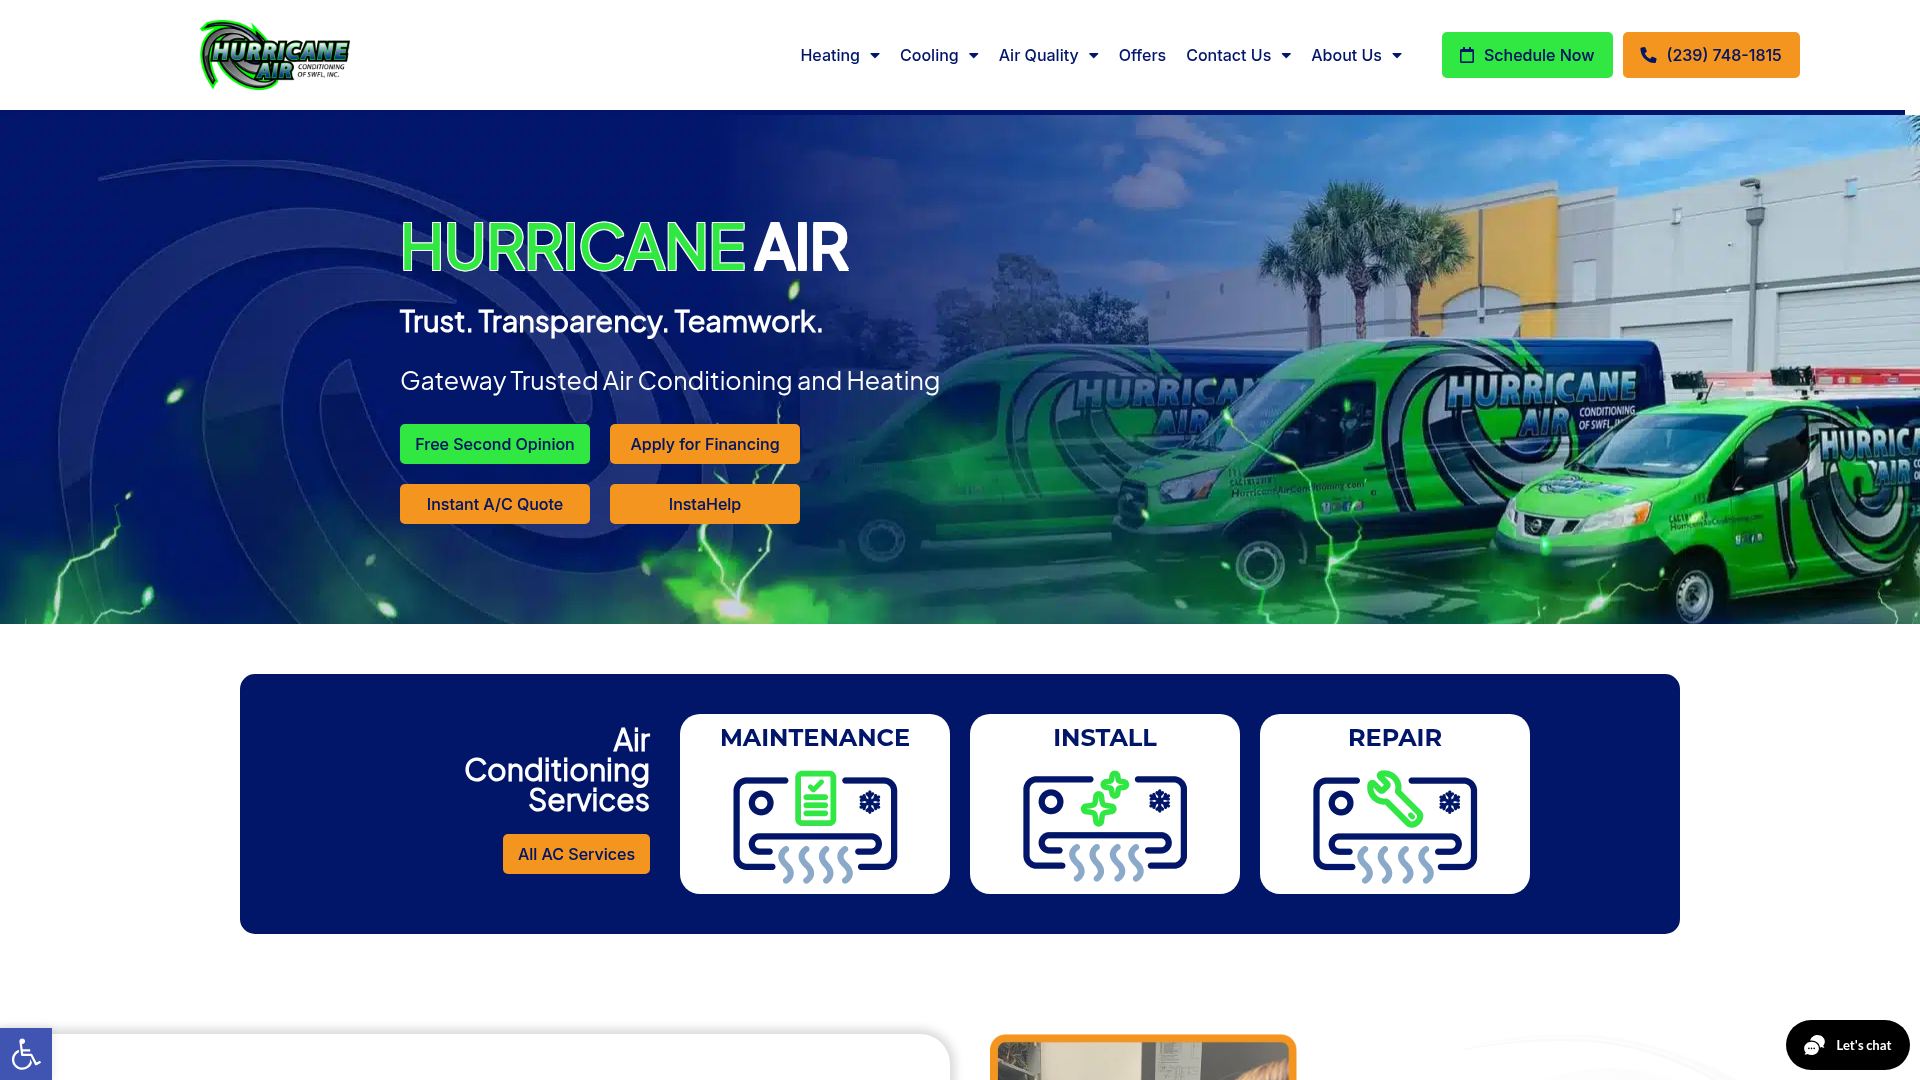
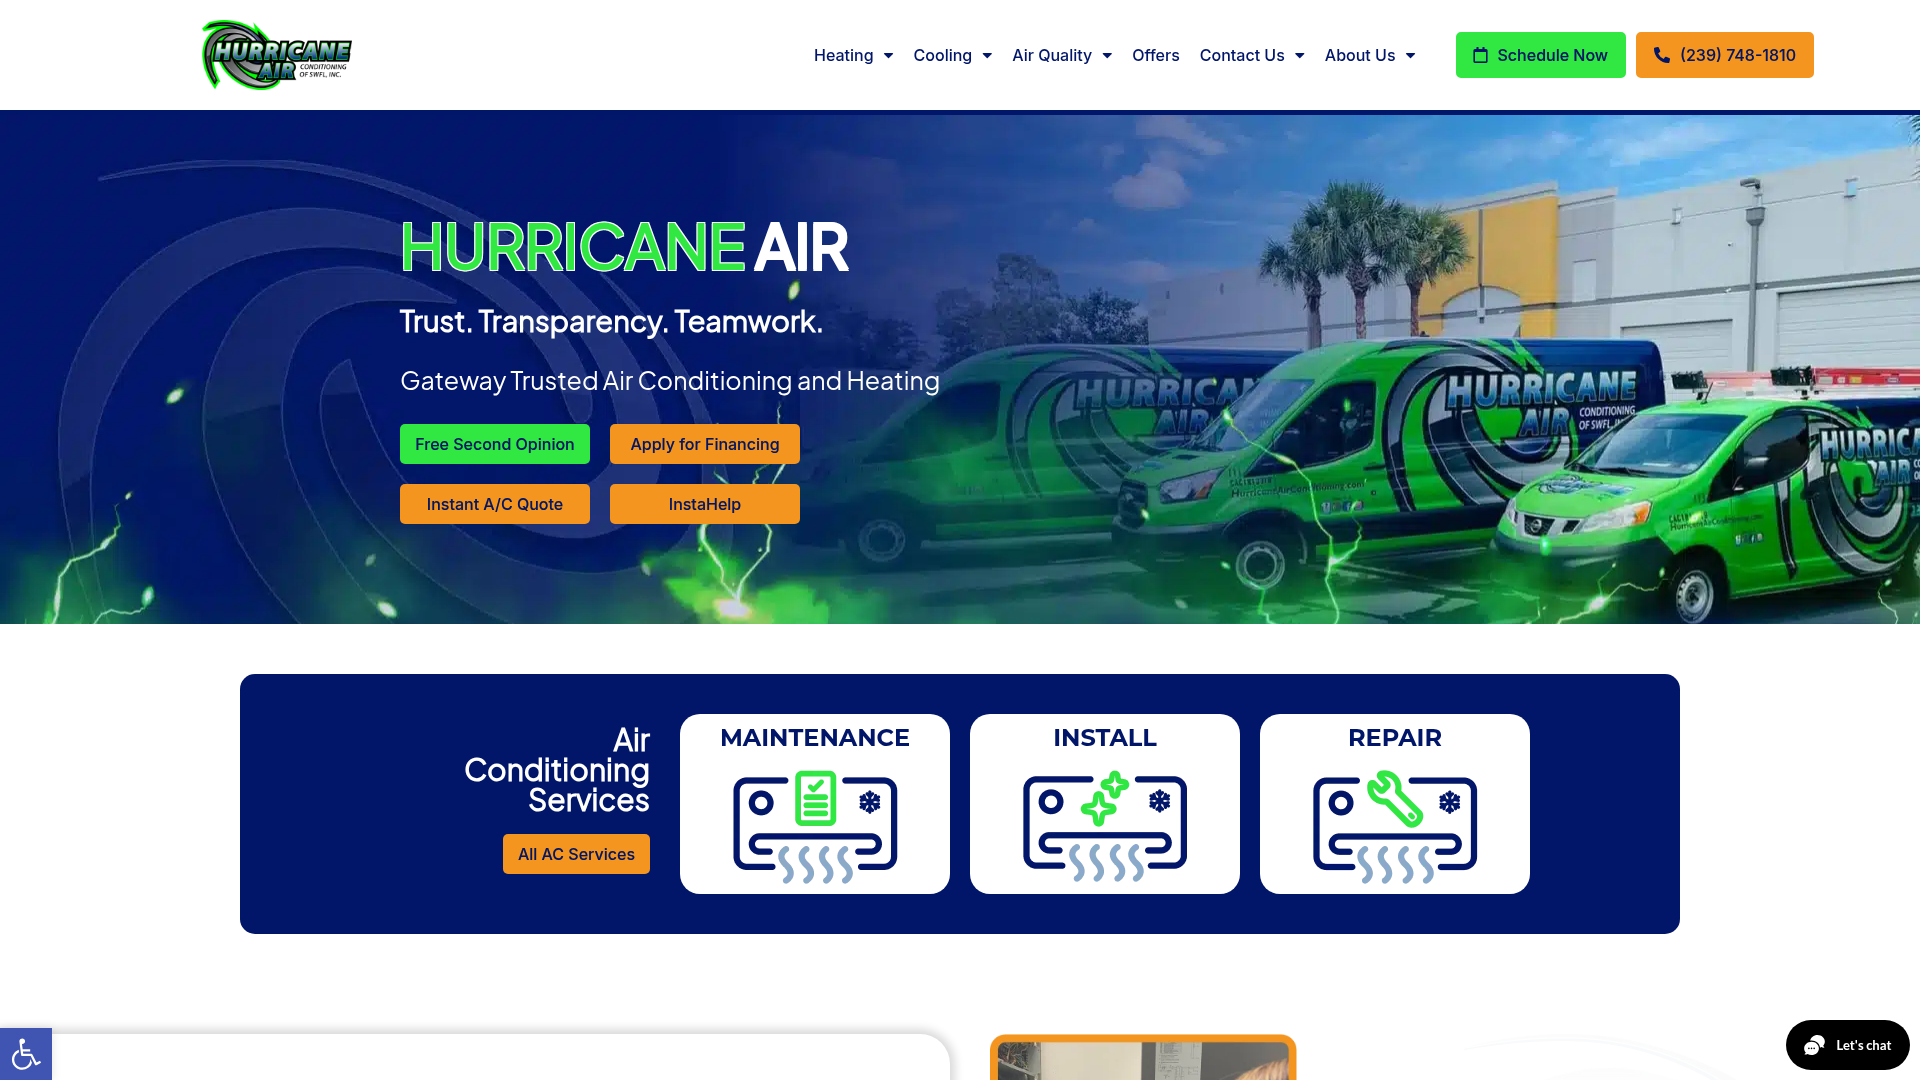
Transitioned from Plan to Build mode
Replit-Commit-Author: Agent
Replit-Commit-Session-Id: b586b3cb-3f9c-4643-a448-60433c67edfd
Replit-Commit-Checkpoint-Type: full_checkpoint
Replit-Commit-Event-Id: 87bd385b-db74-48a5-8f5b-ae010c91334c
Replit-Commit-Screenshot-Url: https://storage.googleapis.com/screenshot-production-us-central1/17902595-5e38-448f-a199-084bf58822c2/b586b3cb-3f9c-4643-a448-60433c67edfd/kCWYXNl
Replit-Helium-Checkpoint-Created: true

Changed region(s): [[0.4062, 0.0306, 0.7188, 0.0611], [0.75, 0.0306, 0.9688, 0.0917], [0.0938, 0.0, 0.1875, 0.0917]]

diff --git a/attached_assets/content-1777517236071.md b/attached_assets/content-1777517236071.md
@@ -1,0 +1,153 @@
+[Skip to content](https://hurricaneairconditioning.com/#content) [Skip to content](https://hurricaneairconditioning.com/#content)
+
+## **Hurricane** Air
+
+## Trust. Transparency. Teamwork.
+
+# Gateway Trusted Air Conditioning and Heating
+
+[Free Second Opinion](https://hurricaneairconditioning.com/schedule-online/)
+
+[Apply for Financing](https://hurricaneairconditioning.com/financing-options-plans/)
+
+[Instant A/C Quote](https://hurricaneairconditioning.com/instant-air-conditioning-quote/)
+
+[InstaHelp](https://app.contact.liveswitch.com/form#22e414a7-ea9c-4139-8c54-7cd4119d3a2e)
+
+## Air  Conditioning  Services
+
+[All AC Services](https://hurricaneairconditioning.com/service/ac-repair/)
+
+## [Maintenance](https://hurricaneairconditioning.com/service/ac-repair/)
+
+[![Cartoonish representation of a cash machine with a dollar bill coming out, featuring a smiling face design on the ATM.](https://hurricaneairconditioning.com/wp-content/uploads/2024/02/maintenance-logo.webp)](https://hurricaneairconditioning.com/service/ac-repair/)
+
+## [INSTALL](https://hurricaneairconditioning.com/service/ac-repair/)
+
+[![A stylized illustration of a blue face with geometric features, green crosses for eyes, and water-like shapes below.](https://hurricaneairconditioning.com/wp-content/uploads/2024/02/install-logo.webp)](https://hurricaneairconditioning.com/service/ac-repair/)
+
+## [REPAIR](https://hurricaneairconditioning.com/service/ac-repair/)
+
+[![A simple illustration of a stylized robot face with blue outlines, green wrench shape on its head, and gray teeth-like shapes on the bottom.](https://hurricaneairconditioning.com/wp-content/uploads/2024/02/repair-logo.webp)](https://hurricaneairconditioning.com/service/ac-repair/)
+
+## Why Choose Us?
+
+![Green hand holding a dollar symbol inside a circle.](https://hurricaneairconditioning.com/wp-content/uploads/2024/02/pricing-icon.webp)
+
+#### Upfront Pricing
+
+![Award Icon](https://hurricaneairconditioning.com/wp-content/uploads/2024/02/20-years-business-icon.webp)
+
+#### 20+ Years In Business
+
+![Security Icon](https://hurricaneairconditioning.com/wp-content/uploads/2024/02/warranty-icon.webp)
+
+#### 5 Year Parts Warranty
+
+![Calendar Icon](https://hurricaneairconditioning.com/wp-content/uploads/2024/02/same-day-service-icon.webp)
+
+#### Same Day Service
+
+![Handshake Icon](https://hurricaneairconditioning.com/wp-content/uploads/2024/02/friendly-professionals.webp)
+
+#### Friendly Professionals
+
+![License Icon](https://hurricaneairconditioning.com/wp-content/uploads/2024/02/fully-licensed-insured-icon.webp)
+
+#### Fully Licensed & Insured
+
+![Clipboard Icon](https://hurricaneairconditioning.com/wp-content/uploads/2024/02/annual-service-plans-icon.webp)
+
+#### Annual Service Plans
+
+![Map Icon](https://hurricaneairconditioning.com/wp-content/uploads/2024/02/locally-owned-operated-icon.webp)
+
+#### Locally Owned & Operated
+
+![Search Icon](https://hurricaneairconditioning.com/wp-content/uploads/2024/02/free-second-opinion-icon.webp)
+
+#### Free Second Opinion
+
+[All AC Services](https://hurricaneairconditioning.com/service/air-conditioning-repair/)
+
+![Technicians in blue shirts, one checking indoor HVAC equipment, another standing next to an outdoor AC unit, both wearing black pants. A woman observes indoors.](https://hurricaneairconditioning.com/wp-content/uploads/2024/02/hurricane-air-collage1.webp)
+
+![A group of technicians in blue uniforms examine HVAC equipment indoors. One technician in a smaller frame cleans a ceiling vent, another works on an outdoor unit.](https://hurricaneairconditioning.com/wp-content/uploads/2024/02/hurricane-air-collage2.webp)
+
+## Top-Notch Service Is All We Know
+
+### Reviews You Can Trust, Direct From Google
+
+[Contact Us](https://hurricaneairconditioning.com/contact-us/)
+
+## Get In Touch With Us
+
+Please enable JavaScript in your browser to complete this form.
+
+First Name \*
+
+Last Name \*
+
+Email \*
+
+Phone Number \*
+
+Preferred ContactPhoneEmail
+
+Reason for reaching out \*
+
+When do you need this work done? \*AsapNext few daysWeeksMonths
+
+By pressing Submit I agree to receive phone, email, or text messages from Hurricane Air Conditioning for information about appointment setting, marketing, and any other project needs. Message & data rates may apply. Messaging rates vary based on your project needs. Consent is not a condition of purchase. WE will never share your personal information with third parties for marketing purposes. [Terms and Privacy Policy.](https://hurricaneairconditioning.com/privacy-policy)
+
+Submit
+
+## Stay Cool All Year Long with Our $189 A/C Membership!
+
+At Hurricane Air Conditioning of SWFL, we believe comfort should be consistent—not seasonal. That’s why we’ve created an affordable, no-nonsense **A/C Membership Plan** that keeps your system running like a champ, reduces unexpected breakdowns, and gives you VIP-level service without the premium price. As a trusted HVAC company Gateway residents rely on, we understand the importance of having reliable air conditioning throughout the year, especially in Florida’s hot and humid climate. When you choose our membership plan, you’ll experience the peace of mind that comes with expert maintenance, prompt repairs, and priority scheduling from seasoned professionals dedicated to your comfort. Unlike other Gateway air conditioning contractors, our team is committed to delivering honest assessments, transparent pricing, and superior workmanship whether it’s a routine checkup or an emergency call. Our goal is to help you maximize your system’s efficiency, extend its lifespan, and provide a comfortable, healthy indoor environment for your family all year long. Discover the difference that local expertise and genuine customer care can make by joining the growing community of homeowners who trust us as their go-to specialists for all their air conditioning needs in Gateway and the surrounding areas.
+
+![Logo for "Hurricane Air Conditioning of SWFL, Inc." with stylized text and graphic resembling a hurricane swirl.](https://hurricaneairconditioning.com/wp-content/uploads/2025/06/Hurricane-Air-Logo-1024x477.png)
+
+[Learn More](https://hurricaneairconditioning.com/a-c-membership/)
+
+#### Our Service Area
+
+We Proudly Serve Four Counties in Southwest Florida
+
+- ![Location Icon](https://hurricaneairconditioning.com/wp-content/uploads/2024/02/location-icon.webp)[Sarasota County](https://hurricaneairconditioning.com/service-area/)
+- ![Location Icon](https://hurricaneairconditioning.com/wp-content/uploads/2024/02/location-icon.webp)[Lee County](https://hurricaneairconditioning.com/service-area/)
+- ![Location Icon](https://hurricaneairconditioning.com/wp-content/uploads/2024/02/location-icon.webp)[Charlotte County](https://hurricaneairconditioning.com/service-area/)
+- ![Location Icon](https://hurricaneairconditioning.com/wp-content/uploads/2024/02/location-icon.webp)[Collier County](https://hurricaneairconditioning.com/service-area/)
+
+[Full Service Area](https://hurricaneairconditioning.com/service-area/)
+
+#### ![](https://hurricaneairconditioning.com/wp-content/uploads/2023/05/hurricane-air-logo-2.webp)Location
+
+- [12960 Commerce Lakes Dr A-20 Fort Myers 33913](https://www.google.com/search?q=Hurricane+Air+Conditioning+of+SWFL,+Inc.&stick=H4sIAAAAAAAA_-NgU1I1qLCwSEkyS0lKtjROM0lOTE2yMqhINjWzNExKNDKzMEqySDG1XMSq4VFaVJSZnJiXquCYWaTgnJ-XklmSmZ-XmZeukJ-mEBzu5qOj4JmXrAcAFO8G-1QAAAA&hl=en&mat=CU3W782kGyEdElcB7PxHsY9WtpbAL8iZ4hW3fHyPoxNlIxdbviRpzrPOmj4TXtZola4pOE9ohSeSRnMDLLrCWOA8ec1zNLlVk05tJkPuUtP6OprAFdkQiLlu-2eNK5QCv_E&authuser=1)
+
+![BBB Accredited Business logo with A+ rating on a blue background.](https://hurricaneairconditioning.com/wp-content/uploads/2024/02/bbb-logo.webp)
+
+![The image shows a logo with the word "SWACCA" in bold blue letters, featuring a red swoosh-like design under the "S".](https://hurricaneairconditioning.com/wp-content/uploads/2024/02/swacca-logo.webp)
+
+![Logo with "Elite Dealer" in a hexagon and "Comfortmaker" text. Subtext reads "Air Conditioning & Heating.](https://hurricaneairconditioning.com/wp-content/uploads/2024/02/comfortmaker-logo.webp)
+
+![Logo of Nexstar Network with blue text and an orange star above the letter "X.](https://hurricaneairconditioning.com/wp-content/uploads/2024/02/nexstar-logo-144and5334etouches_220.png)
+
+![HomeGuide Top Pro Awards 2024 badge with five gold stars](https://cdn.homeguide.com/assets/images/tmp/homeguide-2024.png)
+
+1. ![chat_user_profile_icon](<Base64-Image-Removed>)Would you like to chat with our team?
+2. Your MobileMessage
+
+By submitting you agree to receive text messages at the number provided. Message/data rates apply.
+
+[Powered by **Hatch**](https://www.usehatchapp.com/?utm_campaign=Hatch%20Chat&utm_source=powered%20by%20hatch&utm_medium=web&utm_content=chat) Text Me
+
+## We’ve received your message!
+
+1. ![chat_user_profile_icon](<Base64-Image-Removed>)We’ll send a reply to your mobile number.
+
+![user_profile_icon](<Base64-Image-Removed>)
+
+Hi there, have a question? Text us here!
+
+Let's chat
